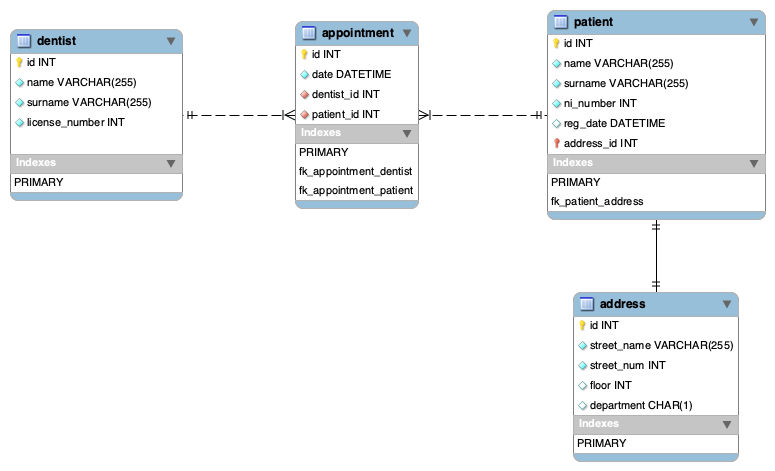
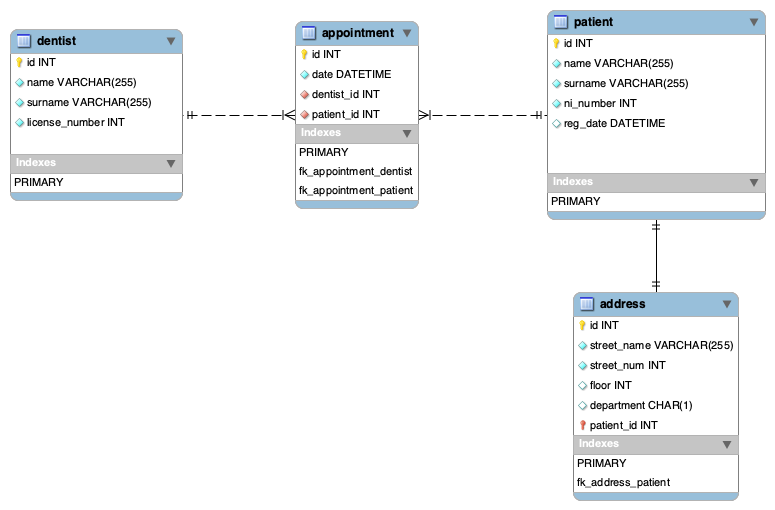
correction of foreign key: patient->address

diff --git a/bookingapp/src/main/java/com/dentalcura/bookingapp/controller/PatientController.java b/bookingapp/src/main/java/com/dentalcura/bookingapp/controller/PatientController.java
@@ -1,0 +1,2 @@
+package com.dentalcura.bookingapp.controller;public class PatientController {
+}
